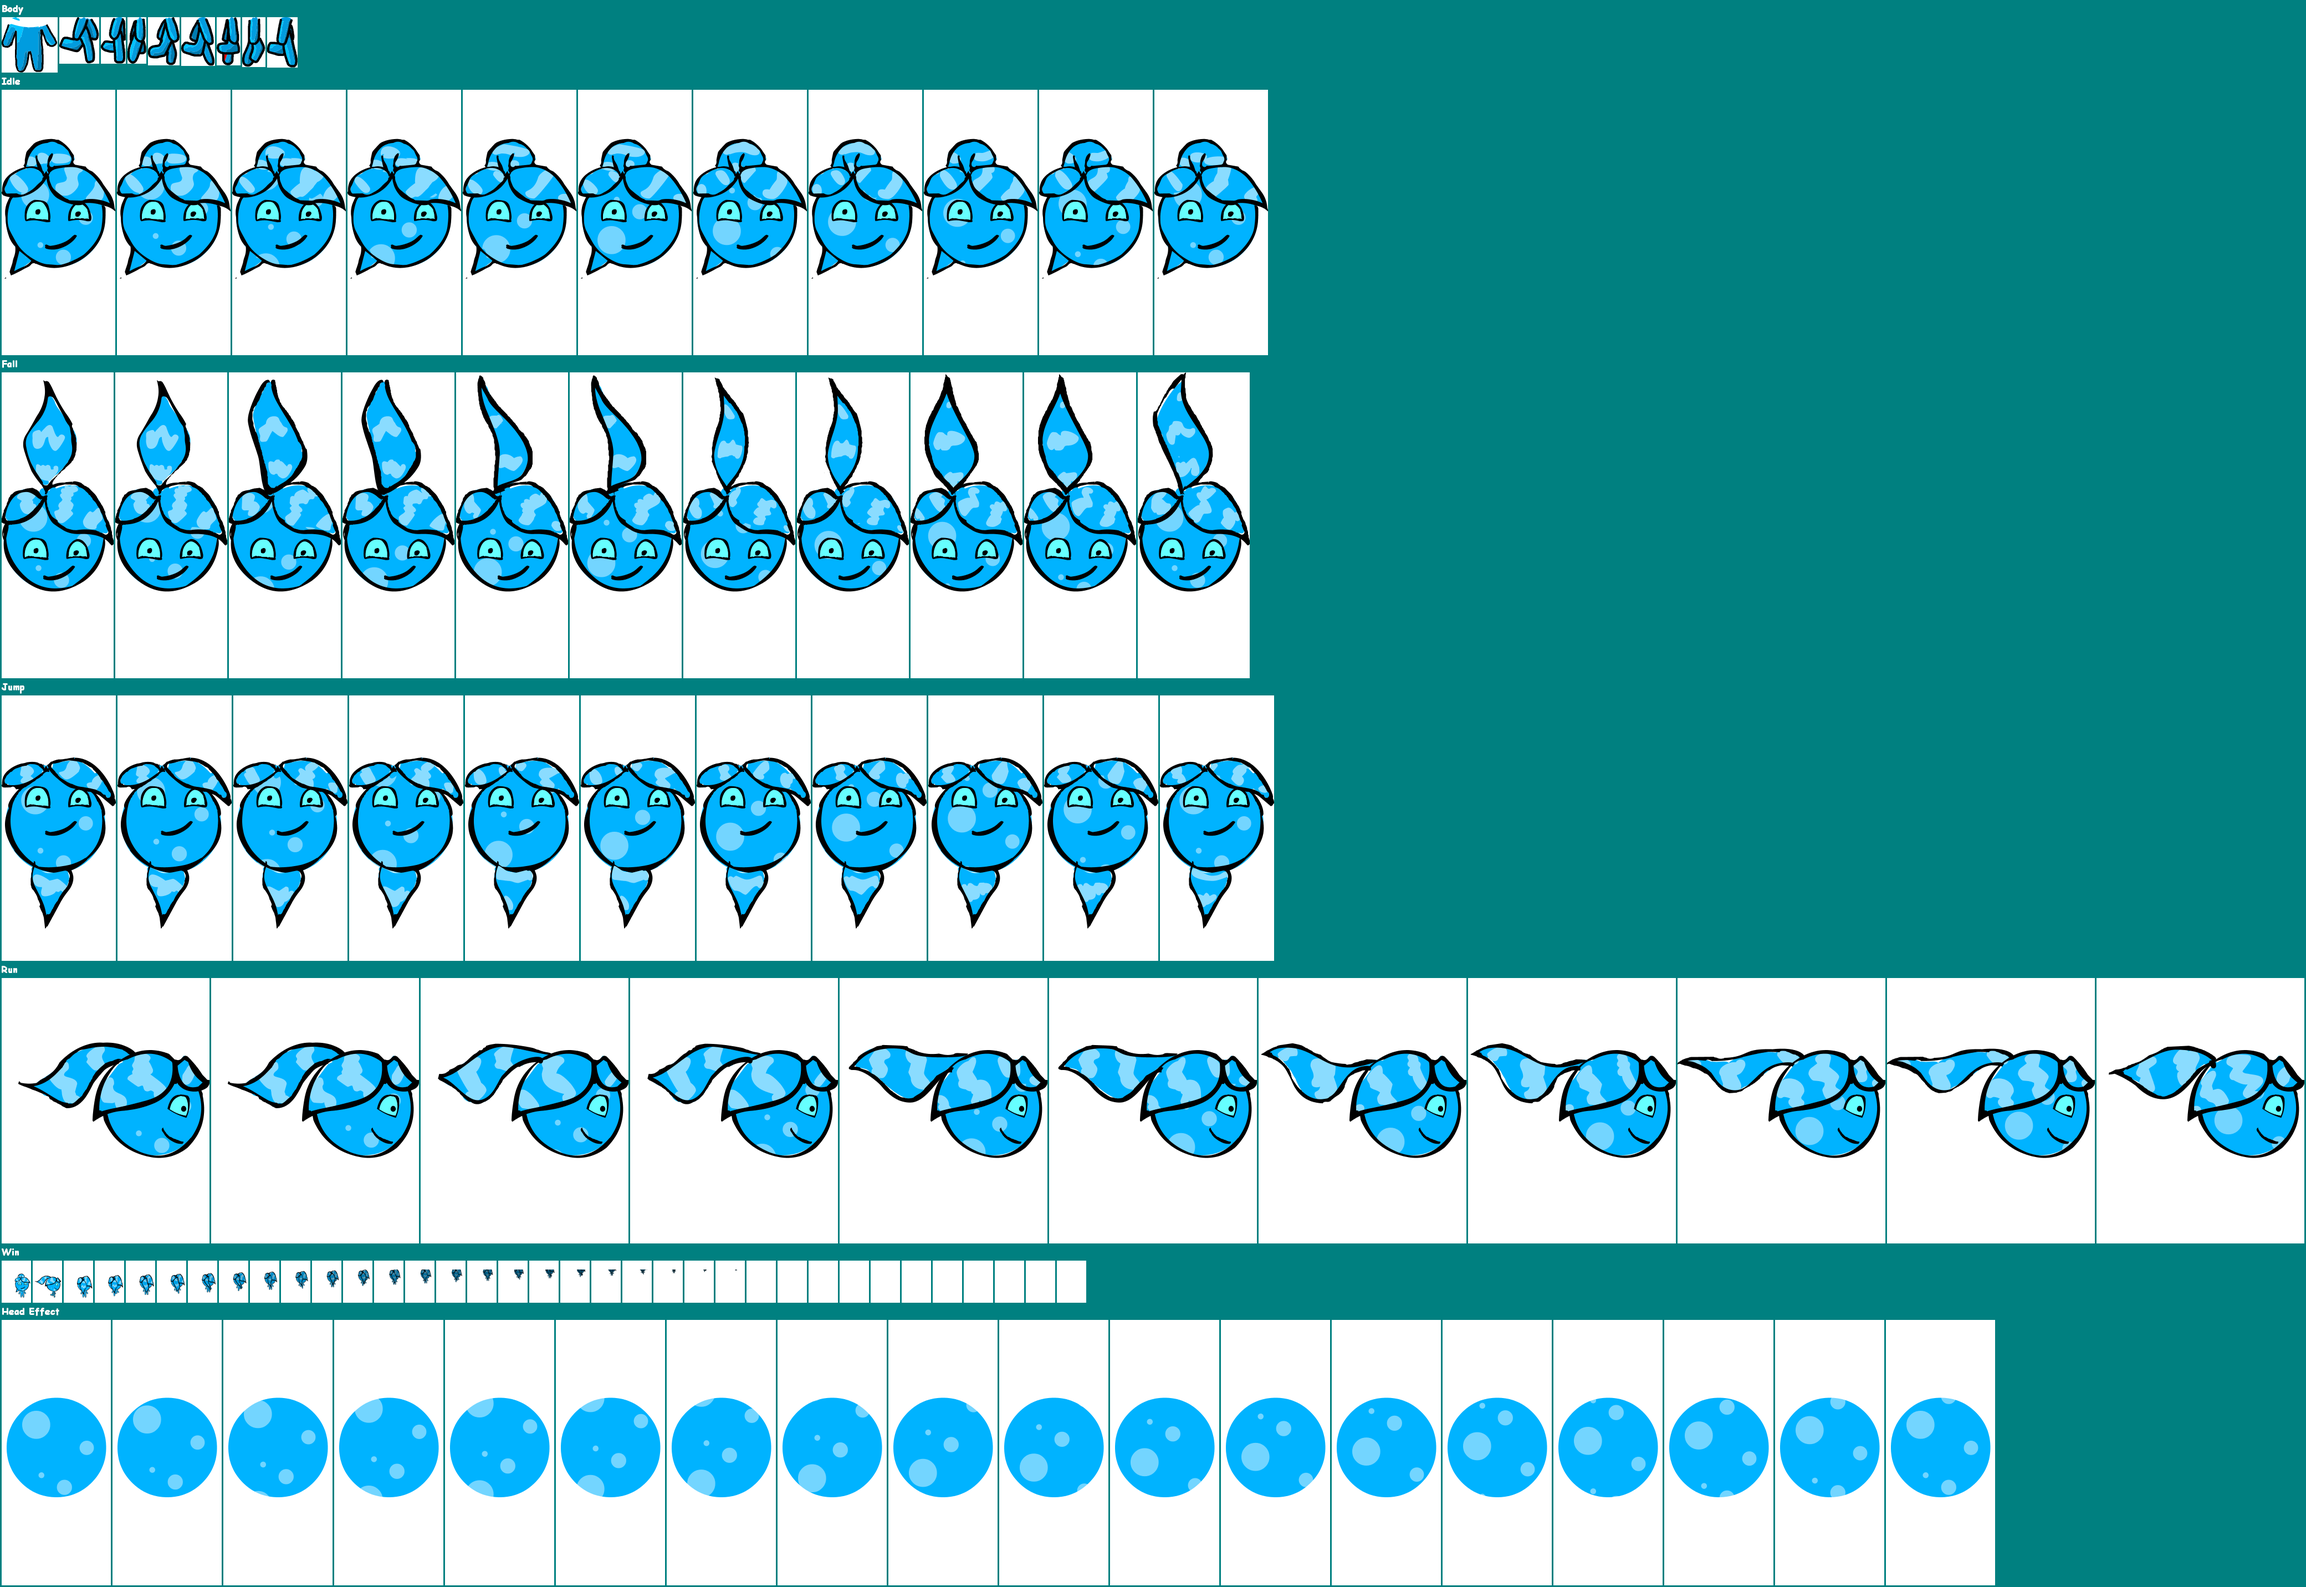
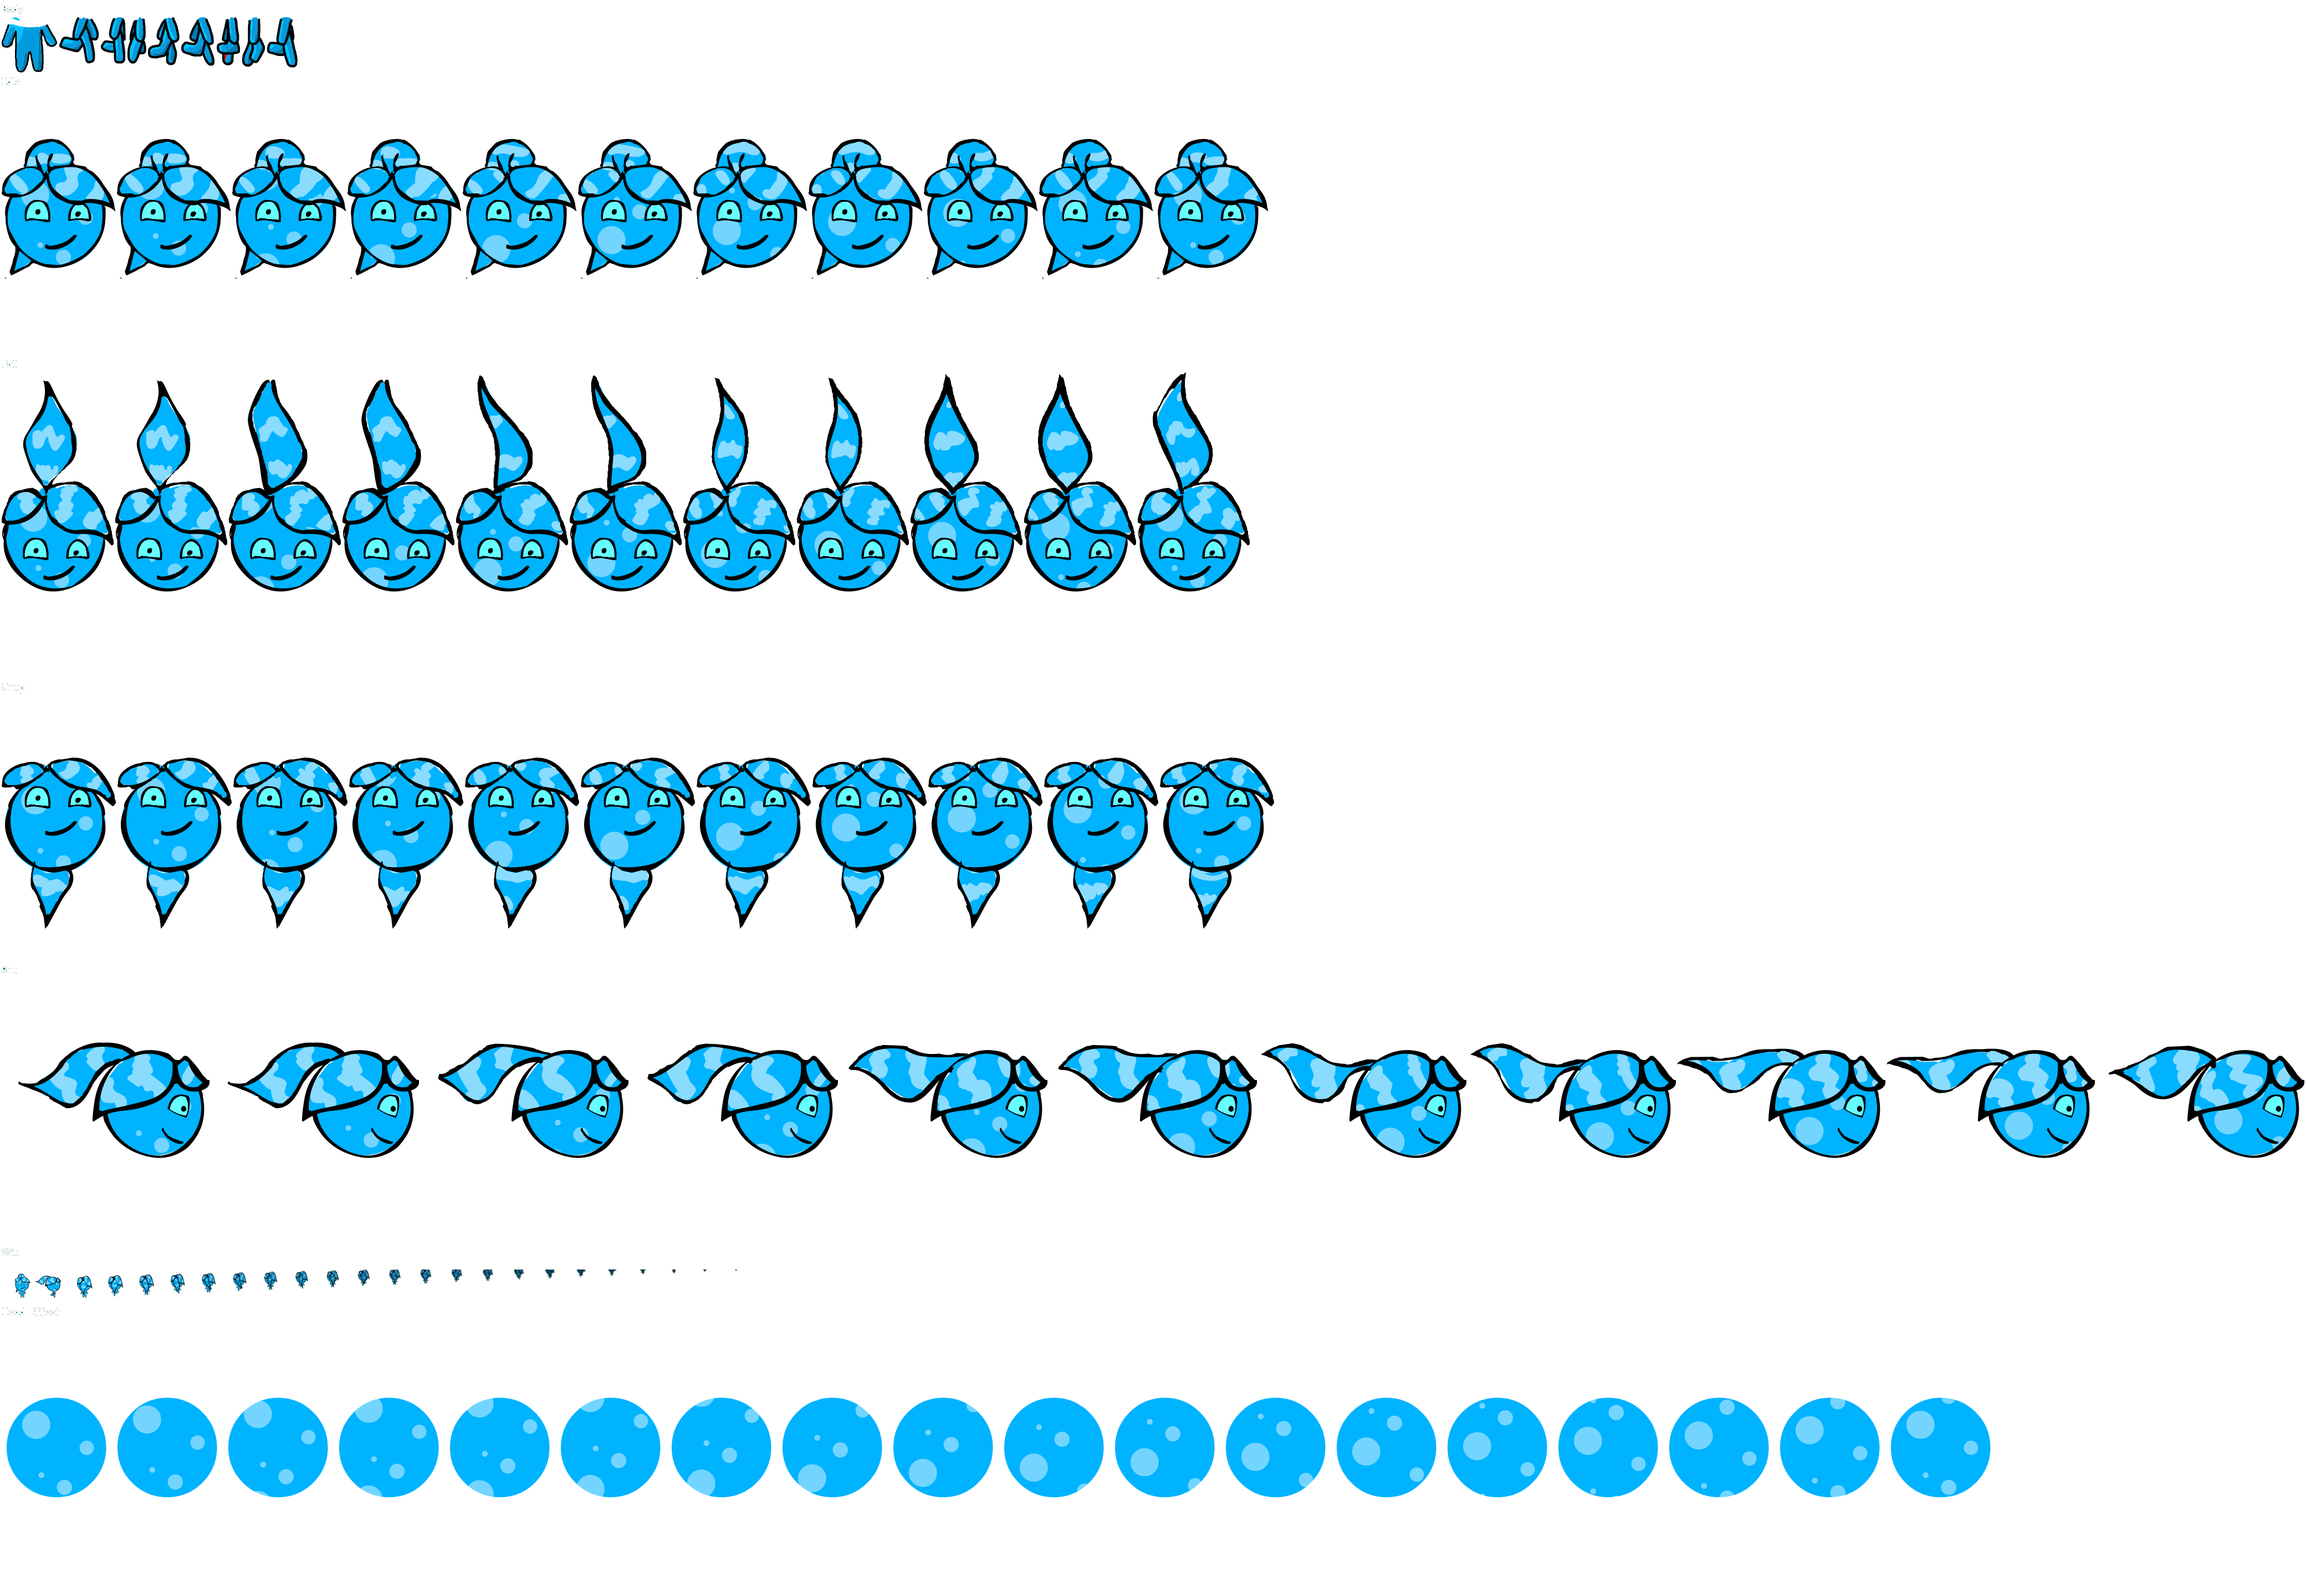
Adiciona watergirl

diff --git a/FireboyWatergirl/Player.cpp b/FireboyWatergirl/Player.cpp
@@ -4,7 +4,7 @@
 
 constexpr float player_scale = 0.2;
 
-constexpr int controls[3][2] = { { 'w', VK_UP }, { 'a', VK_LEFT }, { 'd', VK_RIGHT } };
+constexpr int controls[3][2] = { { 'W', VK_UP }, { 'A', VK_LEFT }, { 'D', VK_RIGHT } };
 constexpr int key_up = 0;
 constexpr int key_left = 1;
 constexpr int key_right = 2;
@@ -24,9 +24,9 @@ Player::Player(bool is_fireboy) : is_fireboy(is_fireboy)
     if (is_fireboy) {
         tiles = new Image("Resources/Characters/Fireboy.png");
 
-        anim_head_idle = new Animation(TileSet(tiles, 217, 338, 1, 4, 2, 162), 0.05f, true, true);
-        anim_head_fall = new Animation(TileSet(tiles, 217, 338, 1, 4, 2, 532), 0.05f, true, true);
-        anim_head_jump = new Animation(TileSet(tiles, 217, 338, 1, 4, 2, 900), 0.05f, true, true);
+        anim_head_idle = new Animation(TileSet(tiles, 217, 338, 1, 5, 2, 162), 0.05f, true, true);
+        anim_head_fall = new Animation(TileSet(tiles, 217, 338, 1, 5, 2, 532), 0.05f, true, true);
+        anim_head_jump = new Animation(TileSet(tiles, 217, 338, 1, 5, 2, 900), 0.05f, true, true);
 
         anim_head_run = new Animation(TileSet(tiles, 344, 204, 1, 5, 2, 1267), 0.05f, true, true);
 
@@ -35,27 +35,38 @@ Player::Player(bool is_fireboy) : is_fireboy(is_fireboy)
         anim_body_idle = new Animation(TileSet(tiles, 102, 100, 1, 1, 3, 31), 0.05f, true, true);
 
         // TODO
-        anim_win = new Animation(TileSet(tiles, 341, 204, 1, 5, 3, 1267), 0.05f, true, true);
-
-        state = IDLE;
-        current_anim_head = anim_head_idle;
-        current_anim_body = anim_body_idle;
-
-        // cria bounding box
-        constexpr int offset_center = 100 * player_scale;
-        BBox(new Rect(
-            -1.0f * (Width()) / 2.0f,
-            -1.0f * (Height() + offset_center) / 2.0f,
-            (Width()) / 2.0f,
-            (Height() - offset_center) / 2.0f));
+        anim_win = new Animation(TileSet(tiles, 341, 204, 1, 5, 3, 1267), 0.05f, true, true);     
     }
     else {
+        tiles = new Image("Resources/Characters/Watergirl.png");
+
+        anim_head_idle = new Animation(TileSet(tiles, 208, 250, 1, 11, 2, 240), 0.03f, true);
+        anim_head_fall = new Animation(TileSet(tiles, 205, 400, 1, 11, 2, 673), 0.05f, true);
+        anim_head_jump = new Animation(TileSet(tiles, 209, 473, 1, 11, 2, 1256), 0.05f, true);
+
+        anim_head_run = new Animation(TileSet(tiles, 378, 240, 1, 11, 2, 1877), 0.05f, true);
+
+        anim_body_run = new Animation(TileSet(tiles, 72, 84, 1, 8, 108, 31), 0.05f, true);
+
+        anim_body_idle = new Animation(TileSet(tiles, 102, 100, 1, 1, 3, 31), 0.05f, true);
+
         // TODO
+        anim_win = new Animation(TileSet(tiles, 341, 204, 1, 5, 3, 1267), 0.05f, true);
     }
 
     velocity = new Vector();
 
+    state = IDLE;
+    current_anim_head = anim_head_idle;
+    current_anim_body = anim_body_idle;
+
     // cria bounding box
+    constexpr int offset_center = 100 * player_scale;
+    BBox(new Rect(
+        -1.0f * (Width()) / 2.0f,
+        -1.0f * (Height() + offset_center) / 2.0f,
+        (Width()) / 2.0f,
+        (Height() - offset_center) / 2.0f));
 
     // posição inicial
     MoveTo(window->CenterX(), 24.0f, Layer::FRONT);
@@ -88,8 +99,6 @@ void Player::Reset(int level)
 
 void Player::updateState()
 {
-    OutputDebugString(std::to_string(velocity->Angle()).c_str());
-    OutputDebugString("\n");
     if (velocity->YComponent() < 0 && velocity->Angle() < 315 && velocity->Angle() > 225) {
         state = JUMPING;
     }
@@ -192,7 +201,9 @@ inline void Player::Draw()
 {
     updateState();
     bool mirror_x = false;
+    float offset_x = is_fireboy ? 5 : -5;
     float offset_y = current_anim_head->tileSet()->TileHeight() / 2.0 - 25;
+    float scale_head = is_fireboy ? 1 : 1.09;
     float rotation_head = 0;
 
     switch (state)
@@ -220,6 +231,13 @@ inline void Player::Draw()
         break;
     }
 
-    current_anim_body->Draw(x, y + (current_anim_body->tileSet()->TileHeight() / 2.0) * player_scale, z, player_scale, 0, mirror_x);
-    current_anim_head->Draw(x - 5 * player_scale, y - offset_y * player_scale, z, player_scale, rotation_head, mirror_x);
+    if (state != JUMPING) {
+        current_anim_body->Draw(x, y + (current_anim_body->tileSet()->TileHeight() / 2.0) * player_scale, z, player_scale, 0, mirror_x);
+        current_anim_head->Draw(x - offset_x * player_scale, y - offset_y * scale_head * player_scale, z, scale_head * player_scale, rotation_head, mirror_x);
+    }
+    else {
+        offset_y -= 25;
+        current_anim_head->Draw(x - offset_x * player_scale, y - offset_y * scale_head * player_scale, z, scale_head * player_scale, rotation_head, mirror_x);
+        current_anim_body->Draw(x, y + (current_anim_body->tileSet()->TileHeight() / 2.0) * player_scale, z, player_scale, 0, mirror_x);
+    }
 }

diff --git a/FireboyWatergirl/Level.cpp b/FireboyWatergirl/Level.cpp
@@ -20,11 +20,12 @@ void Level::Init()
 
     //loadLevel(*this, window, "Level" + std::to_string(level_number) + ".txt");
     scene->Add(FireboyWatergirl::fireboy, MOVING);
-    //scene->Add(FireboyWatergirl::watergirl, MOVING);
+    scene->Add(FireboyWatergirl::watergirl, MOVING);
 
     FireboyWatergirl::fireboy->Level(level_number - 1);
     FireboyWatergirl::watergirl->Level(level_number - 1);
     FireboyWatergirl::fireboy->MoveTo(window->CenterX(), window->CenterY() + 100);
+    FireboyWatergirl::watergirl->MoveTo(window->CenterX(), window->CenterY() + 100);
 
     // inicia com m�sica
     FireboyWatergirl::audio->Frequency(MUSIC, 0.94f);

diff --git a/FireboyWatergirl/FireboyWatergirl.cpp b/FireboyWatergirl/FireboyWatergirl.cpp
@@ -55,11 +55,11 @@ void FireboyWatergirl::Init()
 
 void FireboyWatergirl::Update()
 {
-    // habilita/desabilita visualiza��o da bounding box
+    // habilita/desabilita visualização da bounding box
     if (window->KeyPress('B'))
         viewBBox = !viewBBox;
 
-    // atualiza n�vel
+    // atualiza nível
     current_level->Update();
 } 
 
